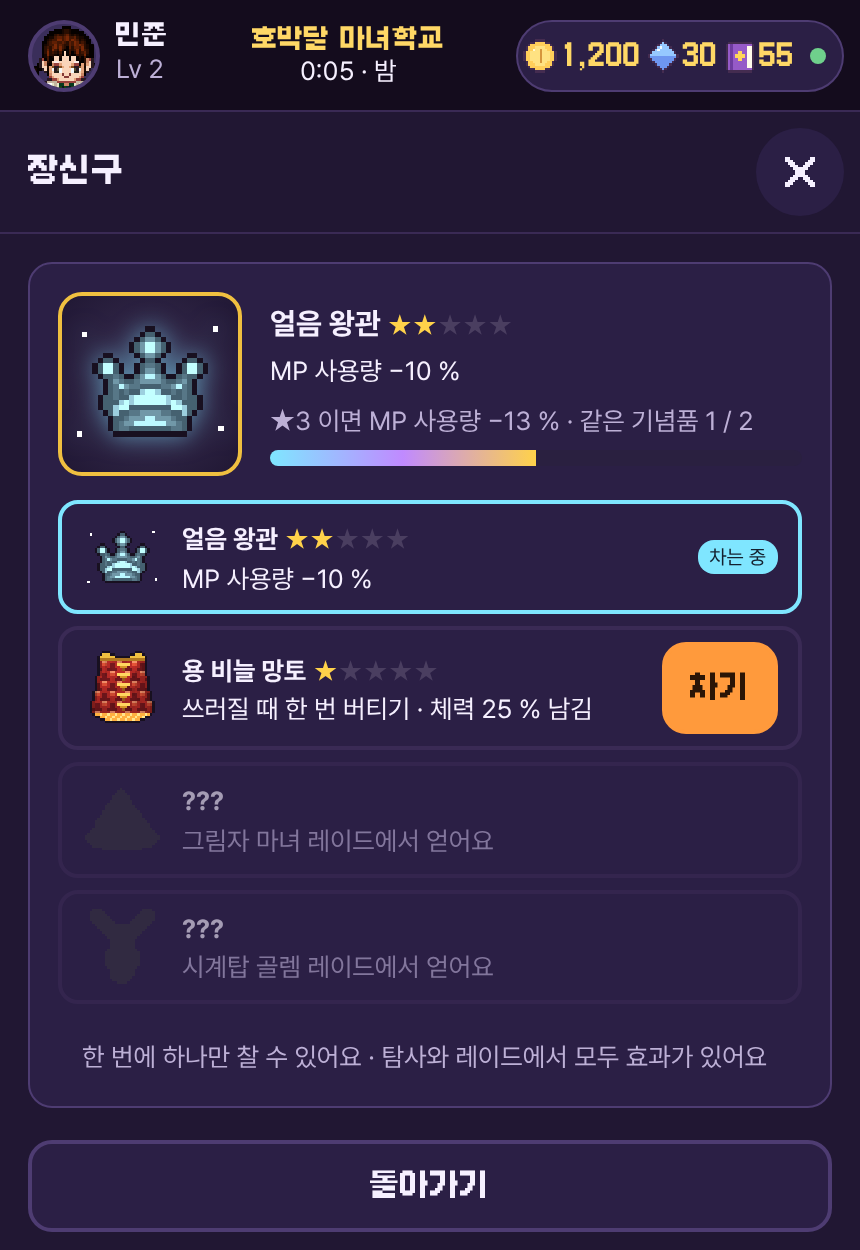
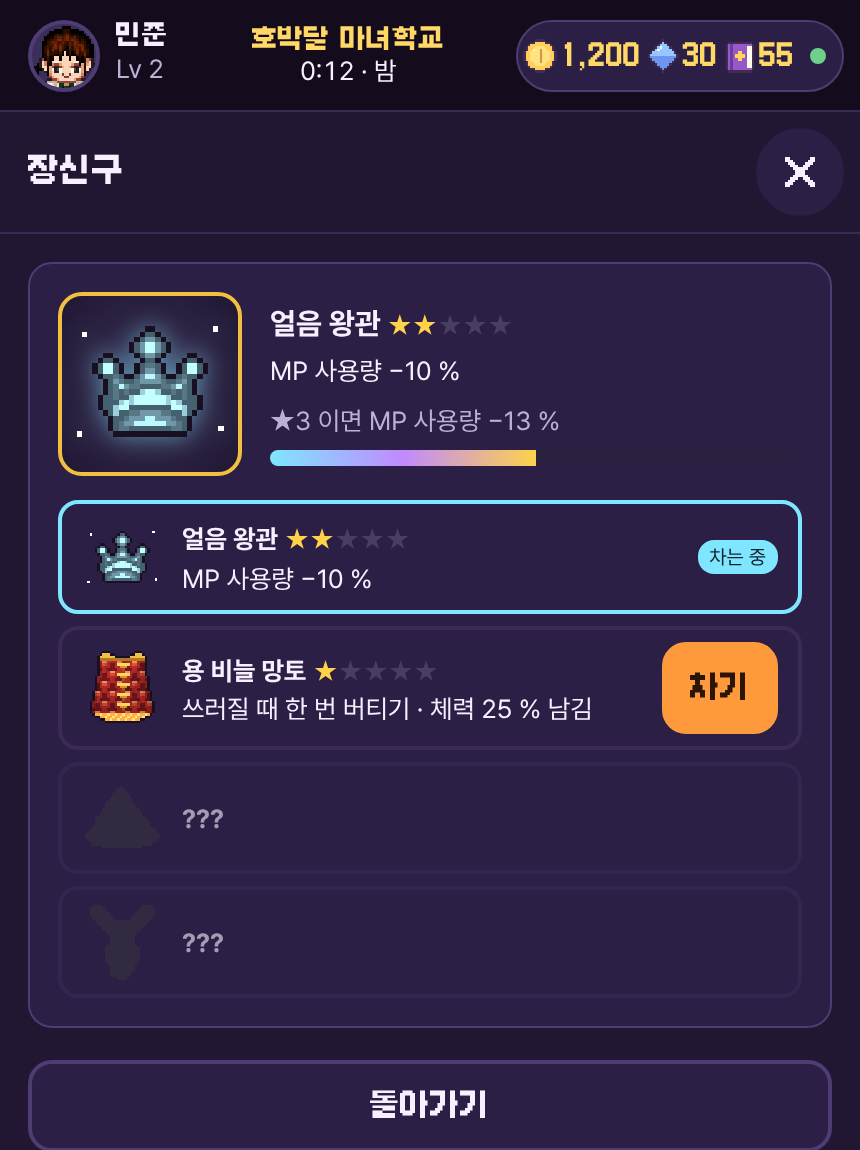
레이드 시안: 장신구 창 설명 글 지움
Claude-Session: https://claude.ai/code/session_01HhJ2NoNCjk5kaA3GWL7UDs

diff --git a/tools/raid_mock/acc_mock.js b/tools/raid_mock/acc_mock.js
@@ -31,9 +31,9 @@ window.__accMock = async (mode) => {
   const sub = [...document.querySelectorAll('*')].find(e => e.children.length === 0 && /흑마법사 ·/.test(e.textContent)); if (sub) sub.textContent = '보스 기념품 · 한 번에 하나만 찰 수 있어요';
   const sec = document.querySelector('.sec .box.px'); const A = __ACC, on = A[0];
   sec.innerHTML = `<div style="display:flex;gap:14px;align-items:center"><div class="xarbox t4" style="display:flex;align-items:center;justify-content:center"><img class="acbig" src="${__accIc(on.k)}"></div>
-    <div style="flex:1"><b>${on.n}</b> ${stars(on.st)}<div class="s" style="margin-top:4px">${on.e(on.st)}</div><div class="s sub" style="margin-top:6px">★${on.st + 1} 이면 ${on.e(on.st + 1)} · 같은 기념품 ${on.cp} / ${on.st}</div><div class="acbar"><i style="width:${on.cp / on.st * 100}%"></i></div></div></div>
-    <div class="aclist">${A.map(a => `<div class="acrow${a.on ? ' on' : ''}${a.own ? '' : ' no'}"><img class="acic" src="${__accIc(a.k, a.own)}"><div style="flex:1;min-width:0"><b>${a.own ? a.n : '???'}</b> ${a.own ? stars(a.st) : ''}<div class="s ${a.own ? '' : 'sub'}">${a.own ? a.e(a.st) : `${a.b} 레이드에서 얻어요`}</div></div>${a.on ? '<span class="actag">차는 중</span>' : a.own ? '<button class="btn go" style="padding:6px 12px">차기</button>' : ''}</div>`).join('')}</div>
-    <div class="s sub" style="margin-top:10px">한 번에 하나만 찰 수 있어요 · 탐사와 레이드에서 모두 효과가 있어요</div>`;
+    <div style="flex:1"><b>${on.n}</b> ${stars(on.st)}<div class="s" style="margin-top:4px">${on.e(on.st)}</div><div class="s sub" style="margin-top:6px">★${on.st + 1} 이면 ${on.e(on.st + 1)}</div><div class="acbar"><i style="width:${on.cp / on.st * 100}%"></i></div></div></div>
+    <div class="aclist">${A.map(a => `<div class="acrow${a.on ? ' on' : ''}${a.own ? '' : ' no'}"><img class="acic" src="${__accIc(a.k, a.own)}"><div style="flex:1;min-width:0"><b>${a.own ? a.n : '???'}</b> ${a.own ? stars(a.st) : ''}${a.own ? `<div class="s">${a.e(a.st)}</div>` : ''}</div>${a.on ? '<span class="actag">차는 중</span>' : a.own ? '<button class="btn go" style="padding:6px 12px">차기</button>' : ''}</div>`).join('')}</div>
+`;
   const ok = document.getElementById('aok'); if (ok) ok.textContent = '돌아가기';
   return 1;
 };
